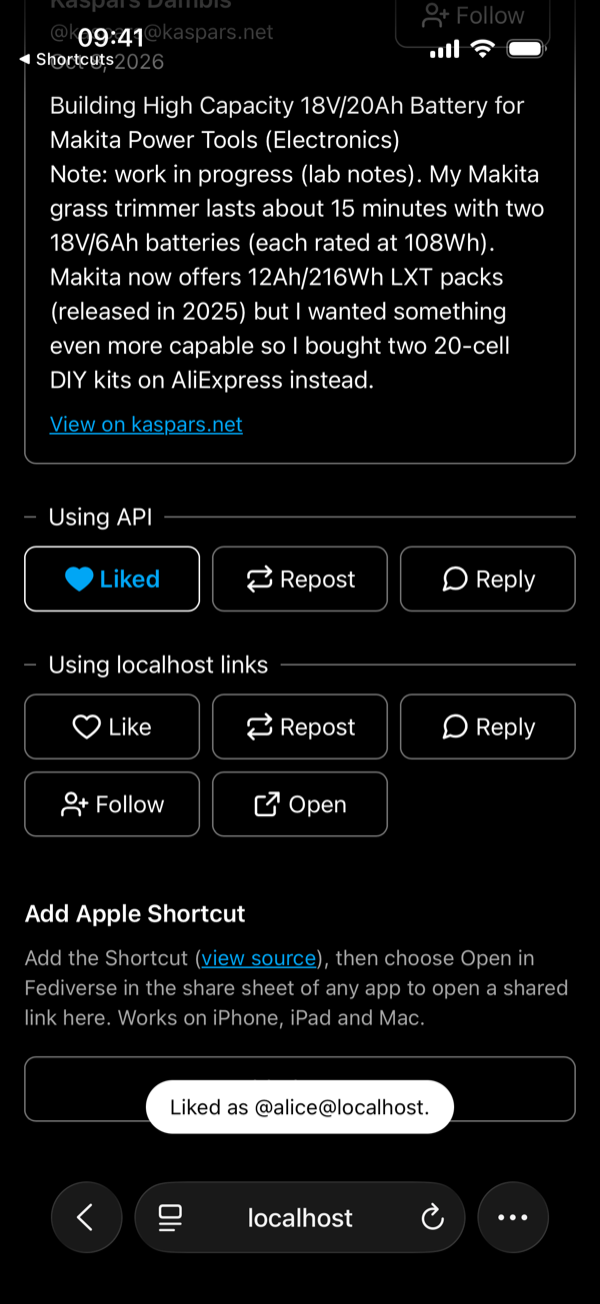
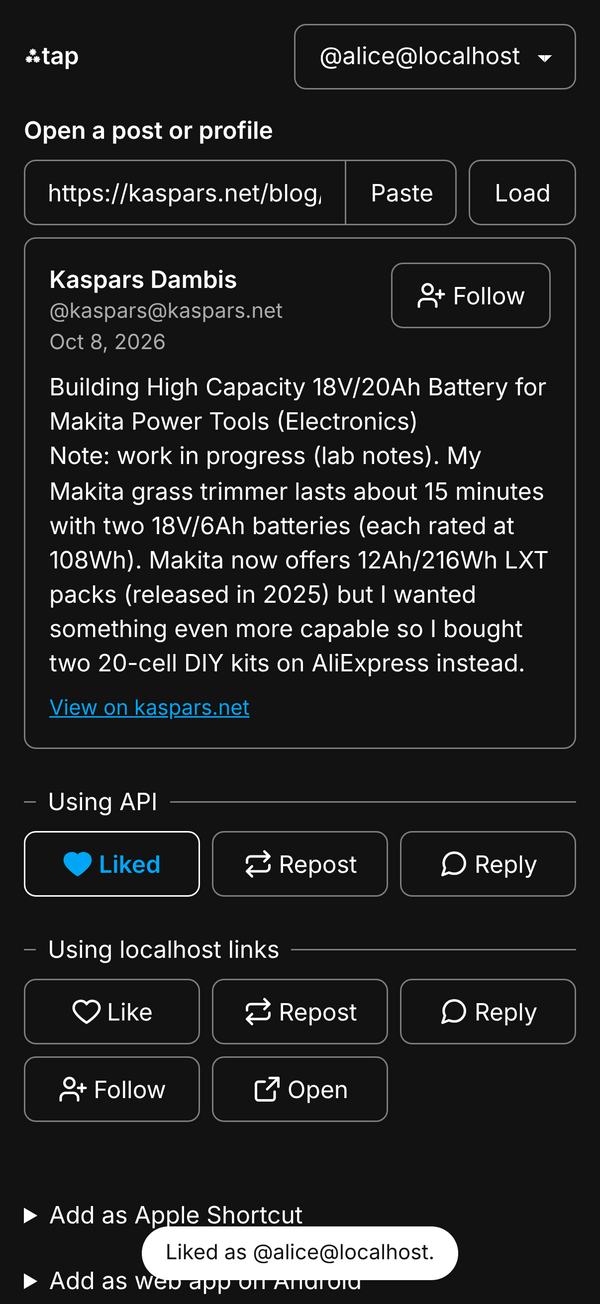
Add link preview meta and image, retake README screens (#11)
* Add Open Graph and Twitter card meta with a 1200×630 preview image

Claude-Session: https://claude.ai/code/session_01B8Ng6bi788ys3Ph3Qe6Keq

* Show the app with a post loaded in the link preview image

The screenshot is captured from the mock server with tools/og/capture.js.

Claude-Session: https://claude.ai/code/session_01B8Ng6bi788ys3Ph3Qe6Keq

* Lead the link preview with the share sheet use case

Claude-Session: https://claude.ai/code/session_01B8Ng6bi788ys3Ph3Qe6Keq

* Retake the README screens from the mock server

The page screens now come from tools/screenshots/capture.js, which also
takes the link preview's app picture. The share sheet and iOS prompt
still come from the simulator.

Claude-Session: https://claude.ai/code/session_01B8Ng6bi788ys3Ph3Qe6Keq

---------

diff --git a/tools/screenshots/capture.js b/tools/screenshots/capture.js
@@ -1,0 +1,102 @@
+// Captures the app from the mock server: the README screens (docs/images/) and the app picture in
+// the link preview (tools/screenshots/og-app.png). Start the dev server first (`npm run dev`), then
+// run `node tools/screenshots/capture.js [base URL]`; the default base is https://localhost:8443.
+// Then run og-image.js to rebuild the preview image. Set CHROMIUM_PATH to use another Chromium.
+import { execFileSync } from "node:child_process";
+import { chromium, devices } from "@playwright/test";
+
+const root = new URL("../..", import.meta.url).pathname;
+const base = process.argv[2] ?? "https://localhost:8443";
+// A real post, which the mock answers the way the ActivityPub plugin federates it (note 6).
+const shared = "https://kaspars.net/blog/high-power-capacity-battery-power-tools";
+const browser = await chromium.launch({ executablePath: process.env.CHROMIUM_PATH });
+
+async function signIn(page) {
+  await page.fill("#account-input", `${base}/users/alice`);
+  await Promise.all([page.waitForURL(/oauth\/authorize/), page.click("#continue")]);
+  await page.selectOption("select[name=user]", "alice");
+  await Promise.all([
+    page.waitForURL((url) => url.pathname === "/"),
+    page.click("button[value=approve]"),
+  ]);
+}
+
+async function reset(page) {
+  await page.goto(`${base}/_dev/`);
+  await page.evaluate(() => fetch("/_dev/reset", { method: "POST" }));
+}
+
+// README: the whole screen of an iPhone 17 Pro (402×874 points) in dark mode, at 600 px wide like
+// the share sheet screenshots beside them.
+{
+  const { defaultBrowserType, ...iPhone } = devices["iPhone 15 Pro"];
+  const context = await browser.newContext({
+    ...iPhone,
+    viewport: { width: 402, height: 874 },
+    colorScheme: "dark",
+    ignoreHTTPSErrors: true,
+  });
+  const page = await context.newPage();
+  const shot = async (name) => {
+    const path = `${root}docs/images/${name}.png`;
+    await page.waitForTimeout(400); // sheets and focus rings settle
+    await page.screenshot({ path });
+    execFileSync("convert", [path, "-resize", "600x", "-strip", path]);
+  };
+  const action = (name) => page.locator(`button[data-action="${name}"]`).first();
+
+  await reset(page);
+  await page.goto(`${base}/?url=${encodeURIComponent(shared)}`);
+  await page.waitForSelector("#account-input");
+  await shot("connect");
+
+  await signIn(page);
+  await action("like").waitFor();
+  await page.evaluate(() => document.activeElement?.blur());
+  await shot("actions");
+
+  await action("reply").click();
+  await page.fill("#reply-text", "Great write-up! How long does the trimmer run on the new pack?");
+  await shot("reply");
+
+  await page.click("#reply-send");
+  await page
+    .locator("#reply-sheet")
+    .evaluate(
+      (sheet) => !sheet.open || new Promise((done) => sheet.addEventListener("close", done)),
+    );
+  await action("like").click();
+  await page.locator('button[data-action="like"][aria-pressed="true"]').first().waitFor();
+  await page.evaluate(() => document.activeElement?.blur());
+  await shot("done");
+  await context.close();
+}
+
+// Link preview: light mode, cropped after the first row of actions, and the mock's localhost
+// shown as social.example so the handles read as they would on a real server.
+{
+  const page = await browser.newPage({
+    viewport: { width: 390, height: 482 },
+    deviceScaleFactor: 2,
+    colorScheme: "light",
+    ignoreHTTPSErrors: true,
+  });
+  await reset(page);
+  await page.goto(`${base}/`);
+  await signIn(page);
+  await page.fill("#post-url", "https://social.example/@dana/1");
+  await page.click("#open-link");
+  await page.waitForSelector('main[data-view="loaded"] button[data-action="like"]');
+  await page.evaluate(() => {
+    const walker = document.createTreeWalker(document.body, NodeFilter.SHOW_TEXT);
+    while (walker.nextNode()) {
+      walker.currentNode.nodeValue = walker.currentNode.nodeValue.replaceAll(
+        "localhost",
+        "social.example",
+      );
+    }
+  });
+  await page.screenshot({ path: `${root}tools/screenshots/og-app.png` });
+}
+
+await browser.close();

diff --git a/index.html b/index.html
@@ -9,6 +9,33 @@
     <meta name="apple-mobile-web-app-capable" content="yes">
     <meta name="apple-mobile-web-app-title" content="⁂tap">
     <title>⁂tap</title>
+    <meta
+      name="description"
+      content="Found a Fediverse post on the web? Share it to ⁂tap from any app to like, repost, reply or follow from your own account, without leaving the page."
+    >
+    <meta name="theme-color" content="#00a6f5">
+    <link rel="canonical" href="https://kasparsd.github.io/fedi-tap/">
+    <!-- Link previews need absolute URLs; they follow client_uri in public/client.json (npm run check). -->
+    <meta property="og:type" content="website">
+    <meta property="og:site_name" content="⁂tap">
+    <meta
+      property="og:title"
+      content="⁂tap: like, repost and reply to the Fediverse from the share sheet"
+    >
+    <meta
+      property="og:description"
+      content="Found a Fediverse post on the web? Share it to ⁂tap from any app to like, repost, reply or follow from your own account, without leaving the page."
+    >
+    <meta property="og:url" content="https://kasparsd.github.io/fedi-tap/">
+    <meta property="og:image" content="https://kasparsd.github.io/fedi-tap/og-image.png">
+    <meta property="og:image:type" content="image/png">
+    <meta property="og:image:width" content="1200">
+    <meta property="og:image:height" content="630">
+    <meta
+      property="og:image:alt"
+      content="⁂tap: like, repost, reply or follow from the share sheet, wherever you find a Fediverse post. Beside it, the app with a post loaded and its Like, Repost and Reply buttons."
+    >
+    <meta name="twitter:card" content="summary_large_image">
     <link rel="manifest" href="/manifest.webmanifest">
     <link rel="icon" href="/icon-192.png" type="image/png">
     <link rel="apple-touch-icon" href="/apple-touch-icon.png">

diff --git a/tools/scripts/check.js b/tools/scripts/check.js
@@ -47,6 +47,18 @@ if (!client.redirect_uris?.includes(client.client_uri)) {
   errors.push("client.json: redirect_uris must include client_uri");
 }
 
+// Link previews: absolute URLs under client_uri, and the image they name is built.
+for (const [, property, url] of html.matchAll(
+  /(?:property|rel)="(og:url|og:image|canonical)"\s+(?:content|href)="([^"]*)"/g,
+)) {
+  if (!url.startsWith(client.client_uri))
+    errors.push(`${property} must be under ${client.client_uri}`);
+  else if (!existsSync(join(dist, url.slice(client.client_uri.length) || "index.html"))) {
+    errors.push(`${property} names a file missing from dist: ${url}`);
+  }
+}
+if (!/property="og:image"/.test(html)) errors.push("dist/index.html has no og:image");
+
 // Sources: remote text may only reach the page as text, and styles may only come from stylesheets.
 function walk(dir) {
   return readdirSync(dir).flatMap((name) => {

diff --git a/tools/screenshots/og-image.js b/tools/screenshots/og-image.js
@@ -1,0 +1,12 @@
+// Renders tools/screenshots/og-image.svg (with the app picture og-app.png from capture.js) to
+// public/og-image.png, 1200×630, for link previews. Run with `node tools/screenshots/og-image.js`.
+// Uses Inter when installed, else system-ui.
+// Set CHROMIUM_PATH to use a browser other than the one `npm run e2e:install` installs.
+import { chromium } from "@playwright/test";
+
+const dir = new URL(".", import.meta.url).pathname;
+const browser = await chromium.launch({ executablePath: process.env.CHROMIUM_PATH });
+const page = await browser.newPage({ viewport: { width: 1200, height: 630 } });
+await page.goto(`file://${dir}og-image.svg`);
+await page.screenshot({ path: `${dir}../../public/og-image.png` });
+await browser.close();

diff --git a/docs/development.md b/docs/development.md
@@ -6,7 +6,7 @@ The app is a Svelte 5 single-page app built with Vite into a static `dist/` fold
 
 Everything under `public/` (`client.json`, `manifest.webmanifest`, the icons and the signed `Open in Fediverse.shortcut`) is copied to `dist/` unchanged. The build uses relative URLs (`base: "./"`), so the page works under any path.
 
-For a different permanent URL, update `client_id`, `client_uri`, and `redirect_uris` in `public/client.json` together, and update `page` in `fedi-tap.cherri` before signing another copy. The Shortcut's icon (`#define color lightblue`, `#define glyph asterisk`) is limited to Apple's built-in glyphs and colours; iOS shows only the glyph in the share sheet. The client ID must match the exact HTTPS URL that serves `client.json`. The redirect URI must match the setup page URL, including its trailing slash. Once people connect, keep both URLs stable. Verify that `client.json` returns HTTP 200 with `Content-Type: application/json`.
+For a different permanent URL, update `client_id`, `client_uri`, and `redirect_uris` in `public/client.json` together, along with the absolute `canonical`, `og:url` and `og:image` URLs in `index.html` (`npm run check` fails if they are not under `client_uri`), and update `page` in `fedi-tap.cherri` before signing another copy. The Shortcut's icon (`#define color lightblue`, `#define glyph asterisk`) is limited to Apple's built-in glyphs and colours; iOS shows only the glyph in the share sheet. The client ID must match the exact HTTPS URL that serves `client.json`. The redirect URI must match the setup page URL, including its trailing slash. Once people connect, keep both URLs stable. Verify that `client.json` returns HTTP 200 with `Content-Type: application/json`.
 
 ### Content Security Policy
 
@@ -195,7 +195,7 @@ Tips for driving it with the simulator control tool: take a screenshot after eac
 
 ### Screenshots for the README
 
-`docs/images/` holds the screenshots the README shows. They come from the flow above, in dark mode, on an iPhone 17 Pro simulator, against the published page and the mock (fictional account `@alice@localhost`, the real kaspars.net post as the shared link). To retake them: `xcrun simctl ui booted appearance dark`, a clean status bar with `xcrun simctl status_bar booted override --time 9:41 --batteryState discharging --batteryLevel 100 --cellularBars 4 --wifiBars 3`, and `xcrun simctl io booted screenshot --type=png <file>` at each step (share sheet, the iOS prompt, sign-in, the post and actions, the reply sheet, the result). Resize to 600 px wide with `sips --resampleWidth 600`; keep the blurred share sheet and prompt as JPEG and the flat page screens as PNG. Screenshots show the published page on the day they were taken, so retake them when the page changes visibly.
+`docs/images/` holds the screenshots the README shows. The page screens (`connect.png`, `actions.png`, `reply.png`, `done.png`) come from the mock server with `node tools/screenshots/capture.js` while `npm run dev` runs: Chromium emulating an iPhone 17 Pro screen (402×874 points) in dark mode, signed in as the fictional `@alice@localhost`, with the real kaspars.net post as the shared link, resized to 600 px wide. The same script takes the app picture for the link preview image. Retake them when the page changes visibly. The share sheet and the iOS prompt (`share-sheet.jpg`, `permission.jpg`) need iOS, so they come from the flow above on an iPhone 17 Pro simulator: `xcrun simctl ui booted appearance dark`, a clean status bar with `xcrun simctl status_bar booted override --time 9:41 --batteryState discharging --batteryLevel 100 --cellularBars 4 --wifiBars 3`, and `xcrun simctl io booted screenshot --type=png <file>`, resized to 600 px wide with `sips --resampleWidth 600` and kept as JPEG.
 
 The published page can lag behind `main`. To retake the screenshots before a deploy, serve the current build with `PORT=8450 npm run dev` and compile a throwaway copy of `fedi-tap.cherri` whose `page` is `https://localhost:8450/`; build and sign it as in `build-shortcut.sh`, and never commit it. Use a dedicated simulator (`xcrun simctl create`) so other sessions that drive the default one don't change the screen, and add the mkcert root certificate to it. The iOS prompt then names `localhost` instead of the published host, so retake `permission.jpg` against the published page once it is deployed.
 
@@ -219,4 +219,4 @@ Proxy responses are read with a 1 MB cap and the HTML in them is cut to 20,000 c
 
 Failures use one pattern: a plain-text alert (bold title, one sentence) directly below the input it belongs to (the input is marked `aria-invalid` and `aria-describedby` points at the alert, and the value stays editable), a button only where there is a different way forward, and an optional "What to do" disclosure (steps, help link, technical detail such as HTTP codes). A failed handle lookup keeps the typed value and offers "Use profile link". When storage is blocked, its saved data is damaged (a Reset button removes only this app's key) or the browser lacks Web Locks, `AbortSignal.timeout` or `crypto.subtle`, the page shows a full-screen explanation instead of a disabled form.
 
-`manifest.webmanifest` makes the page installable (`display: standalone`, `start_url` and `scope` `./`); the CSP allows `manifest-src 'self'` and `img-src 'self'` for the icons (`apple-touch-icon.png` 180 px, `icon-192.png`, `icon-512.png`, `#00a6f5` with a white ⁂, generated from `tools/icons/icon.svg` with `rsvg-convert -w <size> -h <size> tools/icons/icon.svg -o public/<name>.png`). Serve the manifest as `application/manifest+json`. A `share_target` (GET to `./` with `title`, `text` and `url`) adds FediTap to the Android share sheet once installed; Android usually puts the link in `text`, so the page takes the first HTTPS link from `url` or else `text`. iOS ignores `share_target`, so the Shortcut remains the iOS mechanism. In standalone mode (`display-mode: standalone` or `navigator.standalone`) the page hides the "Add to Home Screen" hint, tells the person that the Shortcut opens Safari and that this app keeps its own sign-in, and pads for the safe areas. A Home Screen app and Safari keep separate storage on iOS, so each needs its own sign-in.
+`manifest.webmanifest` makes the page installable (`display: standalone`, `start_url` and `scope` `./`); the CSP allows `manifest-src 'self'` and `img-src 'self'` for the icons (`apple-touch-icon.png` 180 px, `icon-192.png`, `icon-512.png`, `#00a6f5` with a white ⁂, generated from `tools/icons/icon.svg` with `rsvg-convert -w <size> -h <size> tools/icons/icon.svg -o public/<name>.png`). Link previews (Open Graph and `twitter:card` `summary_large_image` in `index.html`) use `public/og-image.png`, 1200×630: the mark, wordmark and tagline beside the app with a post loaded, rendered from `tools/screenshots/og-image.svg` with `node tools/screenshots/og-image.js`. The app picture, `tools/screenshots/og-app.png`, comes from `node tools/screenshots/capture.js` (light mode, 390 px wide at 2×, Dana's post `https://social.example/@dana/1` loaded, cropped after the first row of actions, and the mock's `localhost` shown as `social.example`). Both scripts use Playwright's Chromium and Inter when installed; set `CHROMIUM_PATH` to use another Chromium. Preview crawlers ignore the CSP and need absolute URLs, so those tags name the published address. Serve the manifest as `application/manifest+json`. A `share_target` (GET to `./` with `title`, `text` and `url`) adds FediTap to the Android share sheet once installed; Android usually puts the link in `text`, so the page takes the first HTTPS link from `url` or else `text`. iOS ignores `share_target`, so the Shortcut remains the iOS mechanism. In standalone mode (`display-mode: standalone` or `navigator.standalone`) the page hides the "Add to Home Screen" hint, tells the person that the Shortcut opens Safari and that this app keeps its own sign-in, and pads for the safe areas. A Home Screen app and Safari keep separate storage on iOS, so each needs its own sign-in.

diff --git a/README.md b/README.md
@@ -15,7 +15,7 @@ Share a link from any app, choose **Open in Fediverse**, and FediTap opens with 
 
 | 1. Share | 2. Connect once | 3. Choose | 4. Reply | 5. Done |
 |:---:|:---:|:---:|:---:|:---:|
-| <img src="docs/images/share-sheet.jpg" width="170" alt="Safari's share sheet on a blog post, with Open in Fediverse next to Copy"> | <img src="docs/images/connect.png" width="170" alt="FediTap opened with the shared link and a field to connect an account"> | <img src="docs/images/actions.png" width="170" alt="The post with its author and the Like, Repost, Reply and Follow buttons"> | <img src="docs/images/reply.png" width="170" alt="The reply sheet, naming the author and your account and saying replies are public"> | <img src="docs/images/done.png" width="170" alt="The post, Liked, and a note that the reply was sent"> |
+| <img src="docs/images/share-sheet.jpg" width="170" alt="Safari's share sheet on a blog post, with Open in Fediverse next to Copy"> | <img src="docs/images/connect.png" width="170" alt="FediTap opened with the shared link and a field to connect an account"> | <img src="docs/images/actions.png" width="170" alt="The post with its author and the Like, Repost, Reply and Follow buttons"> | <img src="docs/images/reply.png" width="170" alt="The reply sheet, naming the author and your account and saying replies are public"> | <img src="docs/images/done.png" width="170" alt="The post with Like turned to Liked, and a note saying it was liked as your account"> |
 
 1. In the share sheet of any app (Safari here), choose **Open in Fediverse**. To keep it in the top row, scroll the sheet to **Edit Actions** and add Open in Fediverse to Favorites.
 2. The first time, connect your account. FediTap keeps the link while you approve access on your own server, then opens it.
@@ -27,7 +27,7 @@ iOS asks once whether the Shortcut may send the link to the page, and shows the 
 
 <img src="docs/images/permission.jpg" width="170" alt="The iOS prompt: allow Open in Fediverse to send 1 Safari item to kasparsd.github.io">
 
-The screenshots are an iPhone in dark mode with the published page and Shortcut. The account is a made-up one on the local mock server, and the shared post is a public blog post. [docs/development.md](docs/development.md#test-the-shortcut-in-the-ios-simulator) says how to repeat them.
+The screenshots are an iPhone in dark mode. The share sheet and the prompt come from the iOS Simulator with the published Shortcut, and the FediTap screens from the current page in Chromium. The account is a made-up one on the local mock server, and the shared post is a public blog post. [docs/development.md](docs/development.md#screenshots-for-the-readme) says how to repeat them.
 
 ## What it does
 
